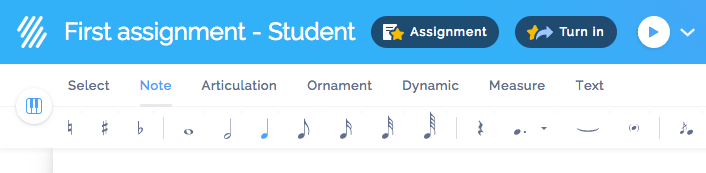
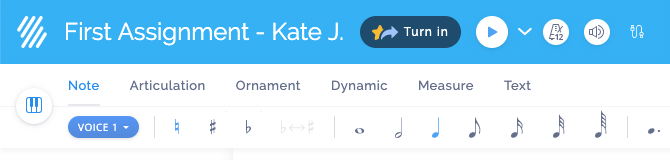
docs(google-classroom): update screenshots for current prod release

diff --git a/docs/en/edu/google-classroom/intro.md b/docs/en/edu/google-classroom/intro.md
@@ -23,7 +23,7 @@ Your students and colleague can directly sign-in to your Flat Private website in
 ## The same experience than Docs or Slides, but with music notation
 
 [Create assignments with Flat](/help/en/education/google-classroom/create-music-notation-assignment.html) just like you would create assignments with Docs or Slides.
-You have the exact same features and experience. You can either let your students create a new document, share them a template that will make copies, or live-collaboration with your complete group on a single music score.
+You have the same features and experience. You can either let your students create a new document, share them a template that will make copies, or live-collaboration with your complete group on a single music score.
 
 ![Create an assignment Flat](/help/assets/img/edu/editor-new-assignment.png)
 
@@ -46,12 +46,15 @@ As soon as your students start their assignments, you can see their work and giv
 
 ![Turn in From Flat](/help/assets/img/edu/editor-student-turnin-button.png)
 
-## The submissions on Google Classroom and your Google Drive
+## The submissions on Google Classroom
 
 Once your students submit their work, you can review the submissions from Google Classroom or Flat, the same info is available on both apps.
-Submissions [are also available in your teacher Drive folder](https://blog.flat.io/updating-google-classroom-and-google-drive-support-on-flat/), giving you an extra way to access to their creations.
 
 ![Submissions of a music notation assignment on Google Classroom](/help/assets/img/edu/gc-assignment-done.png)
+
+In 1-click you can view your students' work on Flat, even if their submissions are not turned in yet. On our review page, you can [give live feedback](#live-feedback-during-the-activity) using [our inline comments](/help/en/music-notation-software/inline-comments.html) and review their submitted scores.
+
+![Flat review page](/help/assets/img/edu/teacher-review-editor.png)
 
 ## Get help anytime from our product team
 

diff --git a/docs/en/edu/google-classroom/experience-student.md b/docs/en/edu/google-classroom/experience-student.md
@@ -35,9 +35,8 @@ Once they open the copy of the score or create a new score for the assignment, t
 
 ## Turn in
 
-Once your students complete the assignment, they will have a "*Turn in*" button at the top of the editor. They can then confirm that the assignment is done, and Flat will bring them back directly in their Google Classroom stream.
+Once your students complete the assignment, they will have a "*Turn in*" button at the top of the editor. They can then confirm that the assignment is done, and Flat will bring them back directly in their Google Classroom Classwork page.
 
-![Turn in](/help/assets/img/edu/editor-title-turnin.png)
+![Turn in Button](/help/assets/img/edu/editor-title-turnin.png)
 
-The "*Assignment*" button next to the *Turn in* button will show all the details of the assignment, including embedded resources, right in the editor.
-
+![Turn in Dialog](/help/assets/img/edu/editor-dialog-turnin.png)
